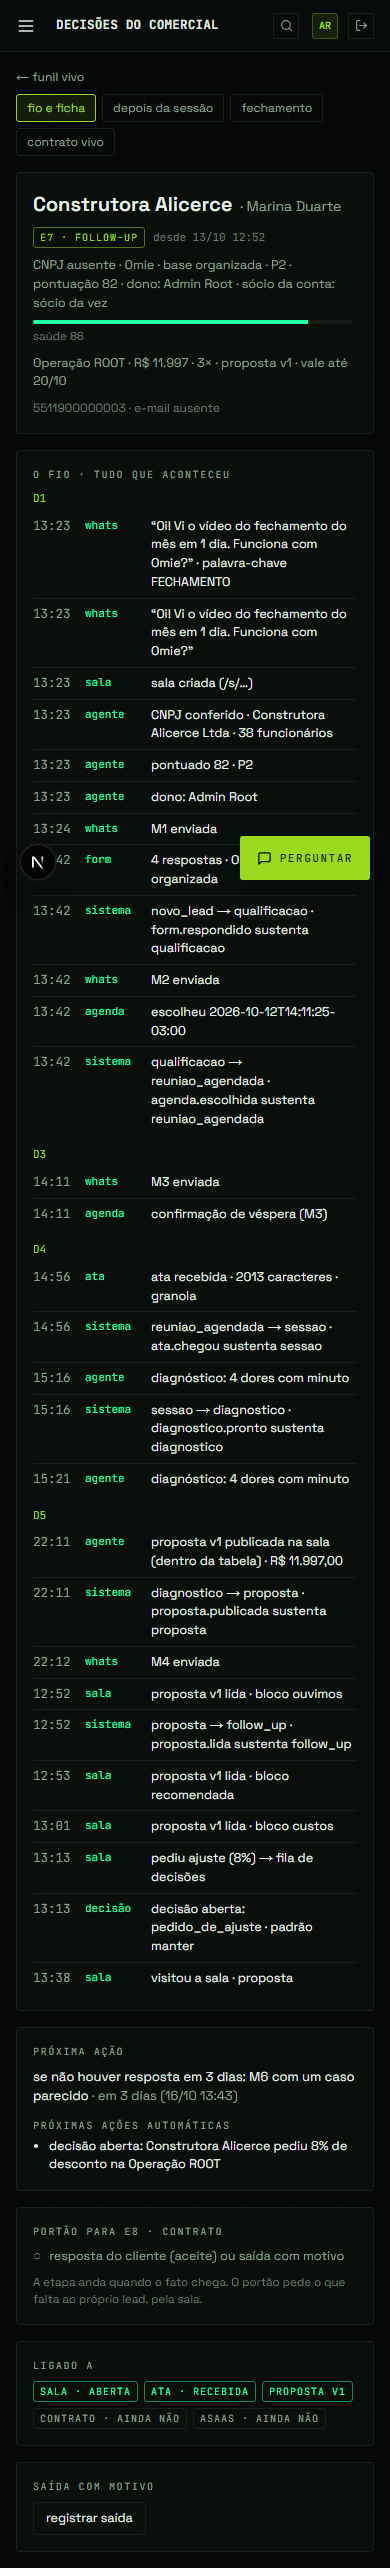
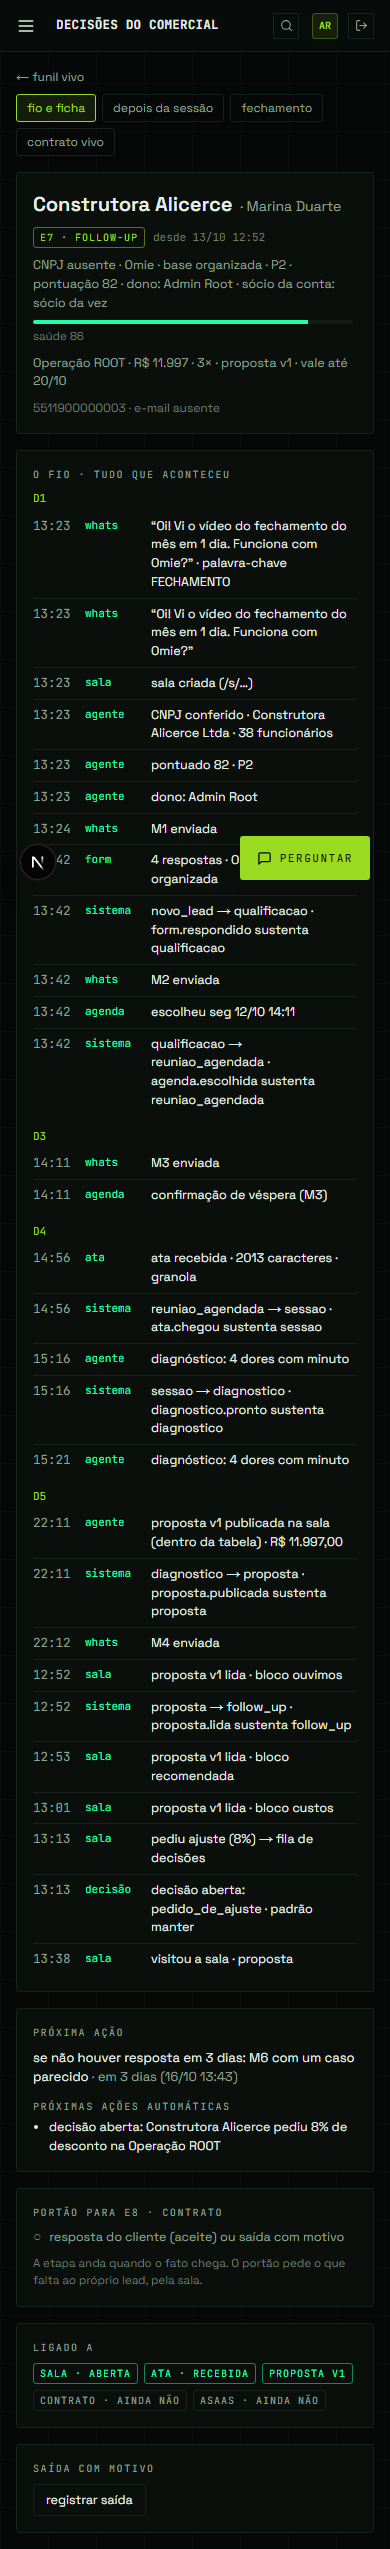
Cockpit do lead (lane C): fio refotografado e pendências registradas

diff --git a/homolog/progresso.md b/homolog/progresso.md
@@ -55,3 +55,5 @@
 - 2026-10-13 14:08 · Lane E · fase 2 no ar sem 501: torre (GET /comercial/torre, POST /comercial/torre/vigia), relatório da semana (GET /comercial/relatorio/semana?dias=, POST .../gerar) e a autonomia com efeito (A0 pula a reação ou a tarefa do relógio e registra; A1 a A3 como hoje; padrão = degrau vigente pela régua). Vigia das 08:00 e relator da quinta 18:00 como tarefas do relógio pelo fuso da política, guardando nota da memória (comercial.vigia, comercial.relatorio.semana.<dia>). Migration aditiva 20261013200000_comercial_vigia (cobrancaSemWebhookDias, efeitoRetidoHoras: nulo = [a decidir] = premissa desligada) aplicada nos três bancos. Shared: só acréscimos (PremissaDoVigia; campos opcionais em TorreDasAutomacoes e RelatorioDaSemana; os dois números no ComercialConfigSchema). Achados da lane F: próxima ação projetada (proxima-acao.ts), saúde nula com fórmula [a decidir], ata sem tamanho e agenda legível no fio. Typecheck limpo, build e smoke OK.
 - 2026-10-13 14:07 · Lane C · oito telas internas em apps/web/src/app/comercial (03 fila /comercial, 04 funil /comercial/funil com arraste bloqueado e o portão, 05 fio /comercial/lead/[id], 06 /comercial/lead/[id]/sessao, 10 /comercial/lead/[id]/fechamento, 11 /comercial/contratos e /comercial/contratos/[leadId], 12 /comercial/torre e 13 /comercial/relatorio com o 501 dito com honestidade); NAV com cinco itens na seção comercial (módulo leads, leads.ver), nav.test e menu.test ajustados ('whatsapp' já estava vermelho desde o simulador da lane B); lib/cockpit.ts pura com 14 casos; tsc do web limpo e vitest do web 63 arquivos verdes.
 - 2026-10-13 14:16 · Lane C · provas: 35 screenshots em homolog/provas/tela-*.png (03, 04, 04b arraste bloqueado, 05, 06, 06b, 10, 11a, 11, 12, 13 em escuro, claro e 390 px; 06c e 06d) tirados com Playwright contra next dev nativo na 3020 (API_PROXY_TARGET=http://127.0.0.1:4010) por homolog/e2e/telas-lane-c.py e sessao-lane-c.py. A tela 06 foi exercida pela própria tela no lead de teste da jornada 'Construtora Alicerce Homolog 0649' (E3): ata da fixture subida, leitor de ata com 4 dores com minuto, diagnóstico aprovado, proposta construída sozinha e retida na porta (approval 380243aa, R3, pendente em /atendimento). Nenhuma das oito empresas da semente foi tocada; as decisões abertas seguem abertas (o toque de responder está provado em tests/component/comercial-cockpit.test.tsx). Torre e relatório: 501 dito com honestidade na tela; com dados, renderizam pelos tipos do shared (teste de componente). Web: tsc limpo, vitest 64 arquivos, 838 casos verdes.
+- 2026-10-13 14:20 · Lane E · conferido com a API compilada (porta 4094, LLM_PROVIDER=stub, ROTINAS_CRON=off) contra rootos_comercial: POST /comercial/torre/vigia = 11 conferidas, 0 quebradas, 6 não conferidas ([a decidir] ou fora do alcance), nota comercial.vigia gravada pelo MemoriaService real; POST /comercial/relatorio/semana/gerar {dias:30} = 14 leads, 5 fechados, funil 14/12/11/10/10/9/9/6/5, perda preço 1, 207 automáticas × 70 humanas, narrativa do stub sem número, guardada e relida pelo GET. Dois defeitos achados e consertados (premissa do fupeiro e mediana negativa pelo dia sem hora do Asaas). Suítes novas: comercial-inteligencia-fase2-puro 20 e comercial-inteligencia-fase2 10, verdes.
+- 2026-10-13 14:18 · Lane C · fechamento da lane. Pendências (não consertadas): (1) o título da barra de cima nas telas do lead (/comercial/lead/*) lê 'Decisões do comercial', porque a Topbar casa pelo href mais longo do NAV e o lead não é item de menu; (2) PEDIDO À API: a ficha devolve socioDaConta com id = nome ('sócio da vez'), e saúde e próxima ação só existem como overlay da semente (achado da lane F); a tela mostra o que vier e escreve 'ausente' no nulo; (3) torre e relatório só foram vistos em 501 contra a API real; com dados, provados por teste de componente com os tipos do shared; (4) a fila mostra o padrão como botão destacado: decisão de desenho da tela, sem mudar o padrão da regra; (5) o lead de teste 0649 ficou com a proposta retida na porta (approval 380243aa) para a demonstração do aguardando aprovação.
